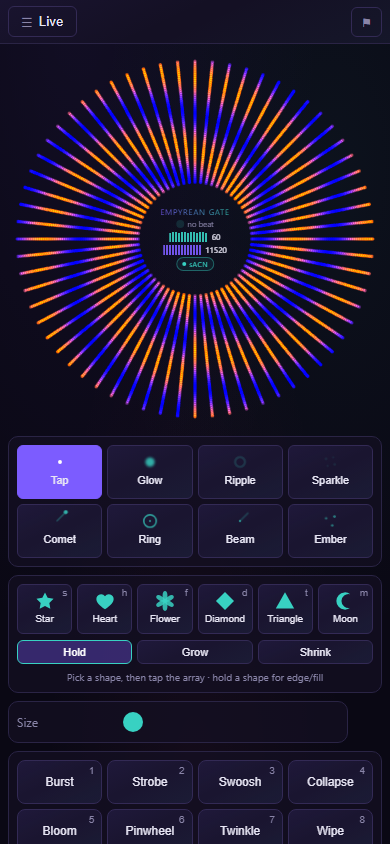
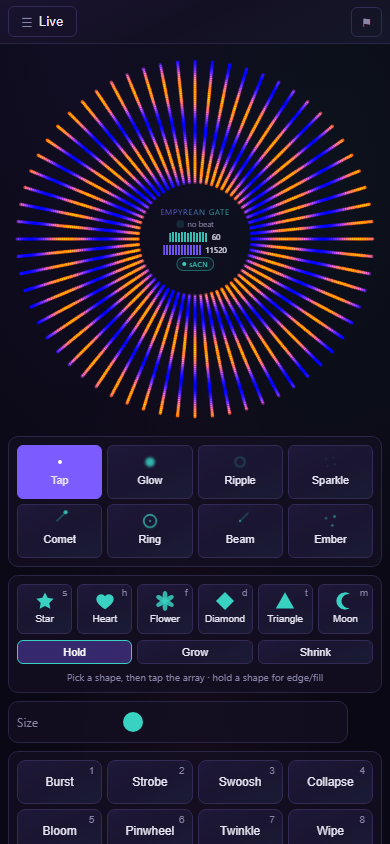
Make the preview spiral meet itself at 0°
The mock backend's preview pattern advanced the sine phase a flat 1/3 rad
per spoke. Over 64 spokes that is 3.395 turns, so spoke 63 and spoke 0 sat
0.4 of a cycle apart and the array showed a seam at 0° — visible in the
README screenshots.

Write the angular term as whole turns per revolution instead, the way the
real layers do (the spiral, rainbow and wedge shaders all floor their
arm/turn count for exactly this reason). Three arms is what 3.395 was
reaching for, and it closes on itself exactly.

Screenshots regenerated.

Changed region(s): [[0.0308, 0.0616, 0.9538, 0.4929], [0.8923, 0.3389, 0.9231, 0.3697]]

diff --git a/scripts/mock-backend.ts b/scripts/mock-backend.ts
@@ -26,6 +26,15 @@ const SPOKES = 64;
 const PIXELS = 64; // decimated preview
 const PREVIEW_MAGIC = 0x45475056;
 
+// Arms in the preview spiral. Anything that varies with the spoke index has to
+// close on itself — a whole number of cycles per revolution — or spoke 63 and
+// spoke 0 meet at a seam and the array shows a discontinuity at 0°. So the
+// angular term is written as turns-per-revolution, like the real layers write
+// theirs (the spiral, rainbow and wedge shaders all floor their arm/turn count
+// for exactly this reason), rather than as a fixed per-spoke phase step that
+// only lands on a whole turn by luck.
+const ARMS = 3;
+
 // A plausible, fully-populated status. The BASE is RuntimeStatus::default()
 // straight from Rust (kept current by `default_status_fixture_is_current`), so a
 // field the backend starts sending can never silently go missing here — the UI
@@ -77,9 +86,10 @@ function previewFrame(t: number): Uint8Array {
   header.setUint16(8, SPOKES, true);
   header.setUint16(10, PIXELS, true);
   for (let s = 0; s < SPOKES; s++) {
+    const sweep = (ARMS * s * 2 * Math.PI) / SPOKES;
     for (let i = 0; i < PIXELS; i++) {
       const o = 12 + (s * PIXELS + i) * 3;
-      const v = Math.round(128 + 127 * Math.sin(i / 6 + s / 3 + t / 10));
+      const v = Math.round(128 + 127 * Math.sin(i / 6 + sweep + t / 10));
       packet[o] = v;
       packet[o + 1] = Math.round(v * 0.4);
       packet[o + 2] = 255 - v;
